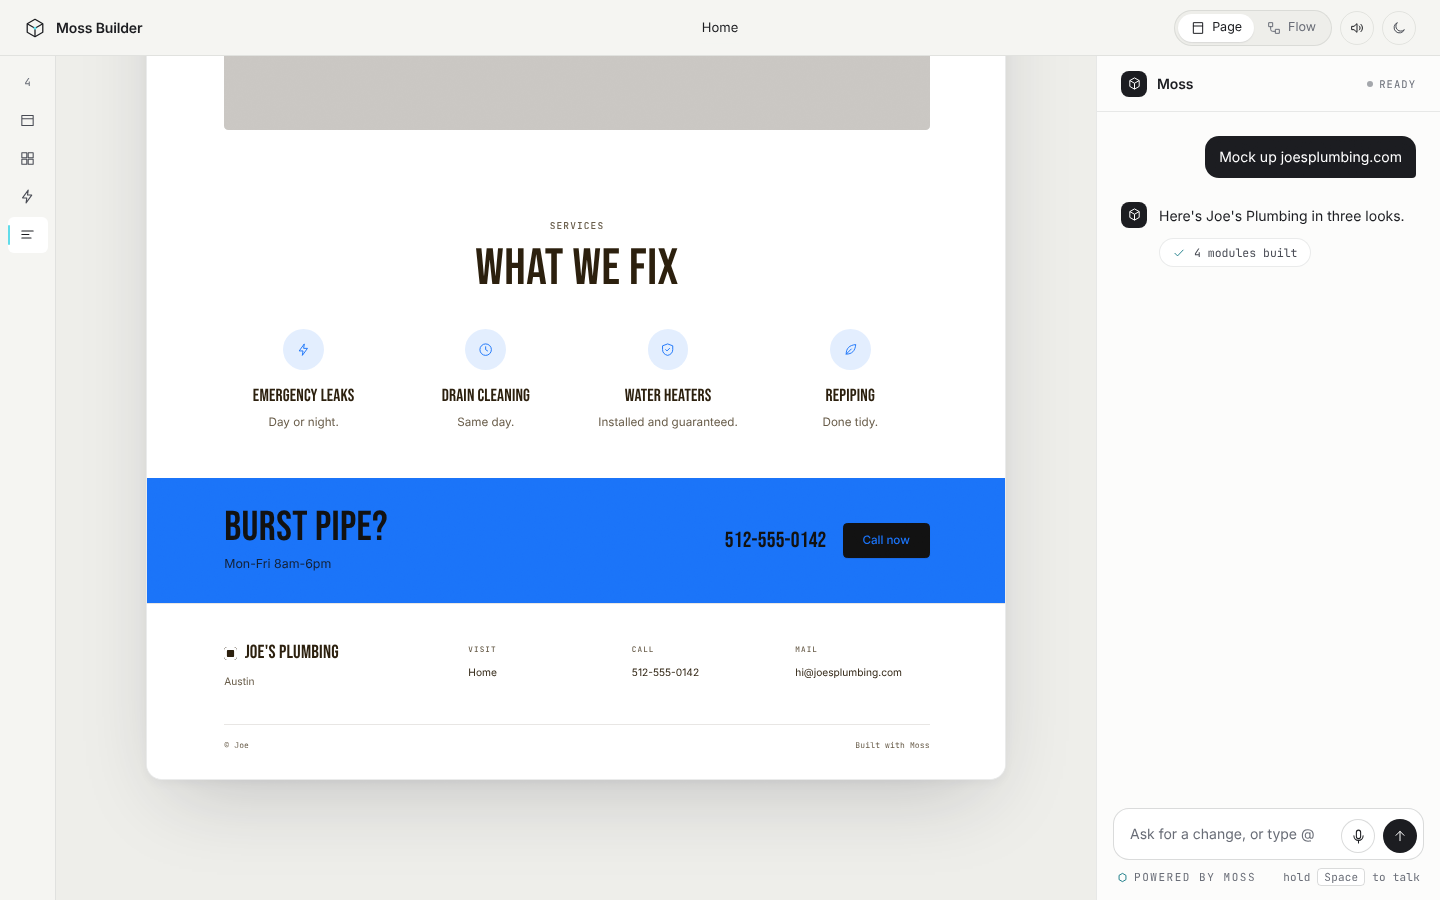
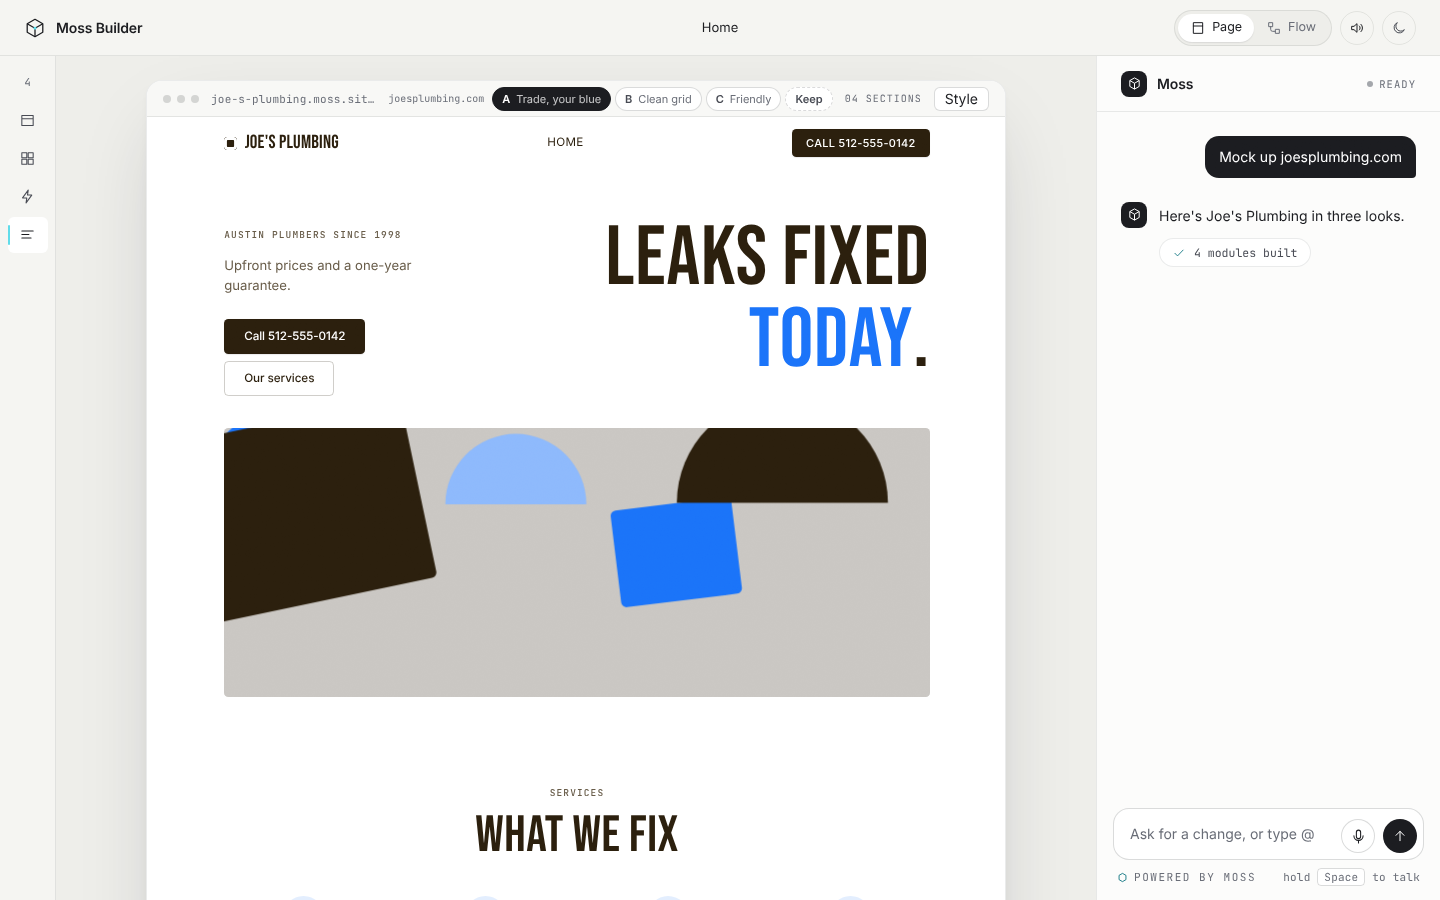
Mocks open at the top with their entrance; switcher shows the bare host
Includes screenshots from a live mock of a real site on the deploy.

Claude-Session: https://claude.ai/code/session_015DKdGCTn16ZeKQK3cTHGLa

Changed region(s): [[0.0938, 0.2489, 0.7188, 0.7778], [0.0938, 0.84, 0.7188, 0.9644], [0.125, 0.0622, 0.6875, 0.1867]]

diff --git a/moss-builder.html b/moss-builder.html
@@ -3038,7 +3038,8 @@ const app = (() => {
     const bar = $('#mockBar'); const m = pageModel.get().mocks;
     bar.hidden = !m;
     if (!m) { bar.innerHTML = ''; return; }
-    bar.innerHTML = `<span class="mb-l">${esc(m.source || 'Mocks')}</span>${m.looks.map((lk, i) => `<button type="button" data-say="Show me ${'ABC'[i]}" aria-pressed="${i === m.active}" title="${esc(lk.name)}: ${esc(lk.why)}">${'ABC'[i]}<span>${esc(lk.name)}</span></button>`).join('')}<button type="button" class="keep" data-say="Keep this one">Keep</button>`;
+    const host = String(m.source || 'Mocks').replace(/^https?:\/\//, '').replace(/^www\./, '').replace(/\/.*$/, '');
+    bar.innerHTML = `<span class="mb-l">${esc(host)}</span>${m.looks.map((lk, i) => `<button type="button" data-say="Show me ${'ABC'[i]}" aria-pressed="${i === m.active}" title="${esc(lk.name)}: ${esc(lk.why)}">${'ABC'[i]}<span>${esc(lk.name)}</span></button>`).join('')}<button type="button" class="keep" data-say="Keep this one">Keep</button>`;
   }
   /* ---- photos: resized on the device; never sent to Moss ---- */
   let photoTarget = null;
@@ -3481,6 +3482,8 @@ const app = (() => {
       turn = null; setBusy(false); return;
     }
     turn = null;
+    // a fresh set of mocks: show it from the top, with its entrance
+    if (ops.some((o) => o.op === 'setMocks')) { $('#pageView').scrollTo({ top: 0, behavior: 'instant' }); renderer.replay(); }
     const curP = pageModel.current(); isoScene.setActive(curP && curP.sections.length ? curP.sections[curP.sections.length - 1].id : null);
     if (building) { await wait(700); document.body.classList.remove('building'); }
     const logEl = msg.querySelector('.log');
